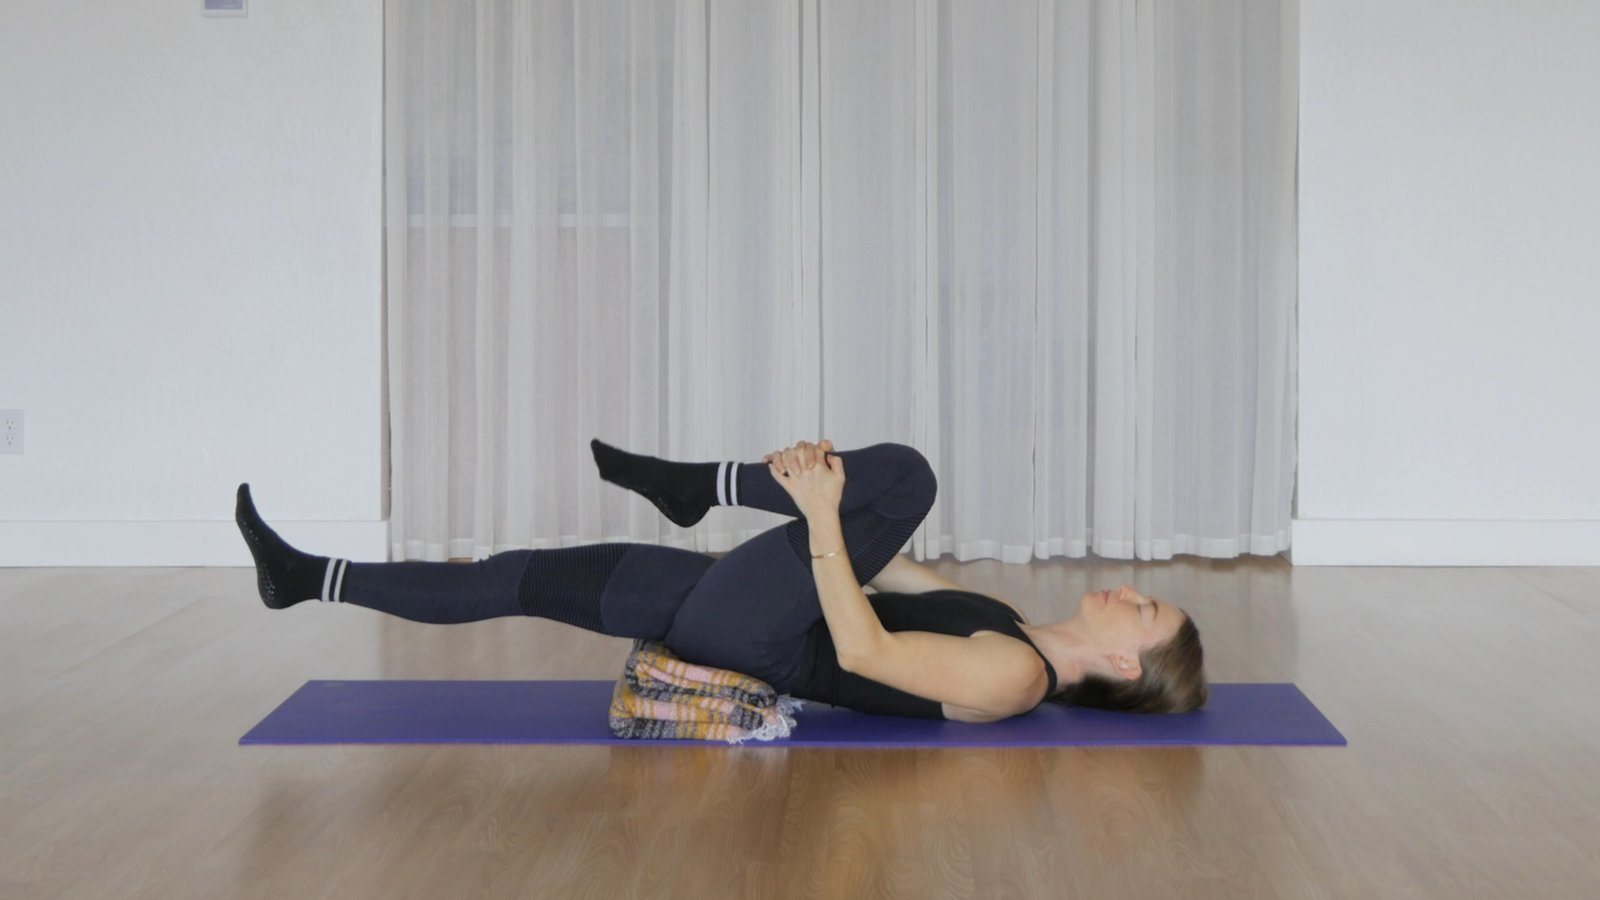
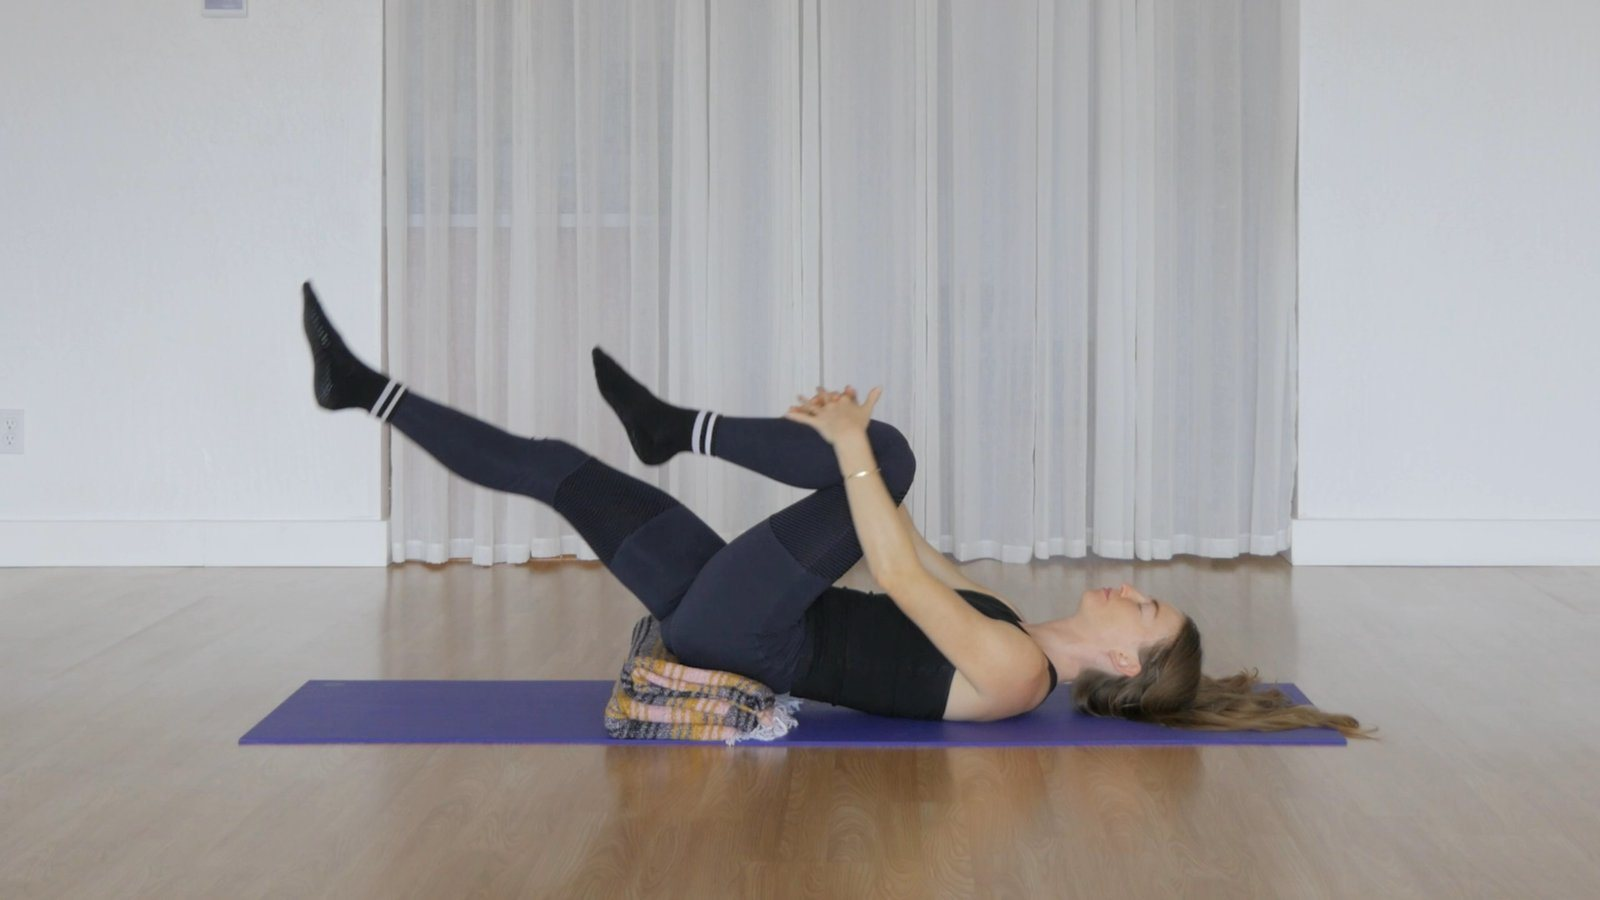
Correct the "sticks" photo to Day 2 at 10:10
The frame I matched was 1:30, the same movement earlier in the class with
the free leg hovering low. 10:10 is the one intended: both legs lifted,
the free leg extending diagonally upward. Alt text follows.

diff --git a/apps/web/src/components/products/posture-landing.tsx b/apps/web/src/components/products/posture-landing.tsx
@@ -338,7 +338,7 @@ export function PostureLanding({
             <div className="flex flex-col gap-5">
               <Image
                 src="/posture/method.jpg"
-                alt="Lying with the hips supported on a folded blanket, hugging one knee in while the other leg extends long"
+                alt="Lying with the hips supported on a folded blanket, hugging one knee in while the other leg extends diagonally upward"
                 width={1600}
                 height={1067}
                 sizes="(min-width: 1024px) 526px, 100vw"
